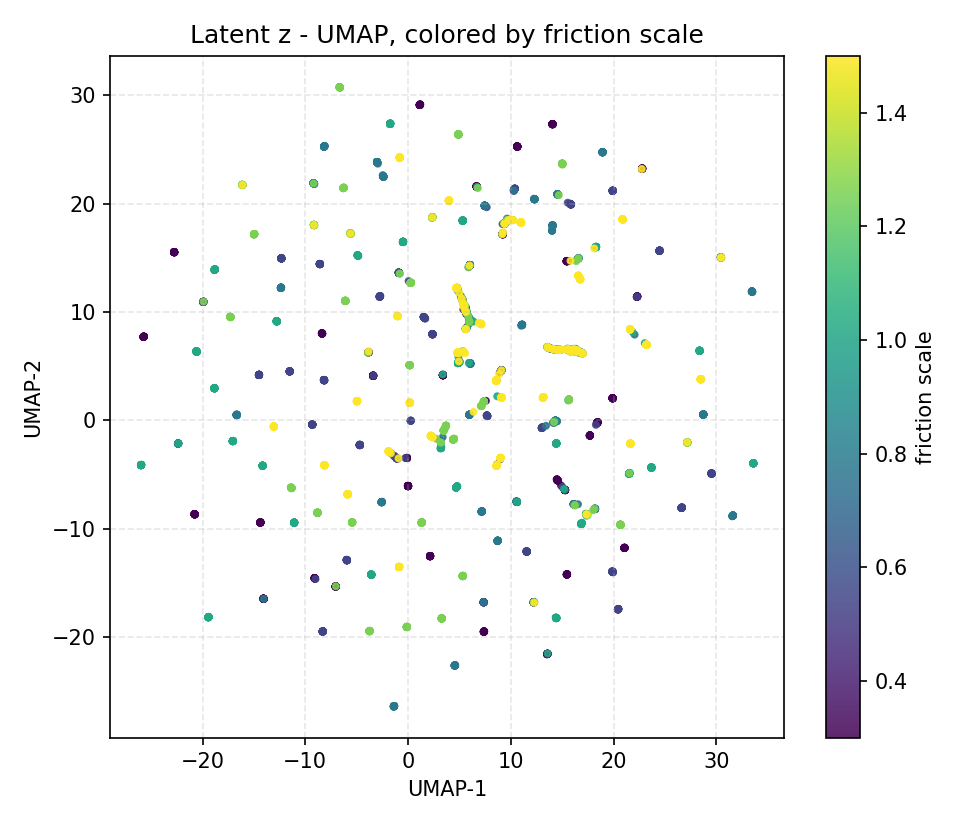
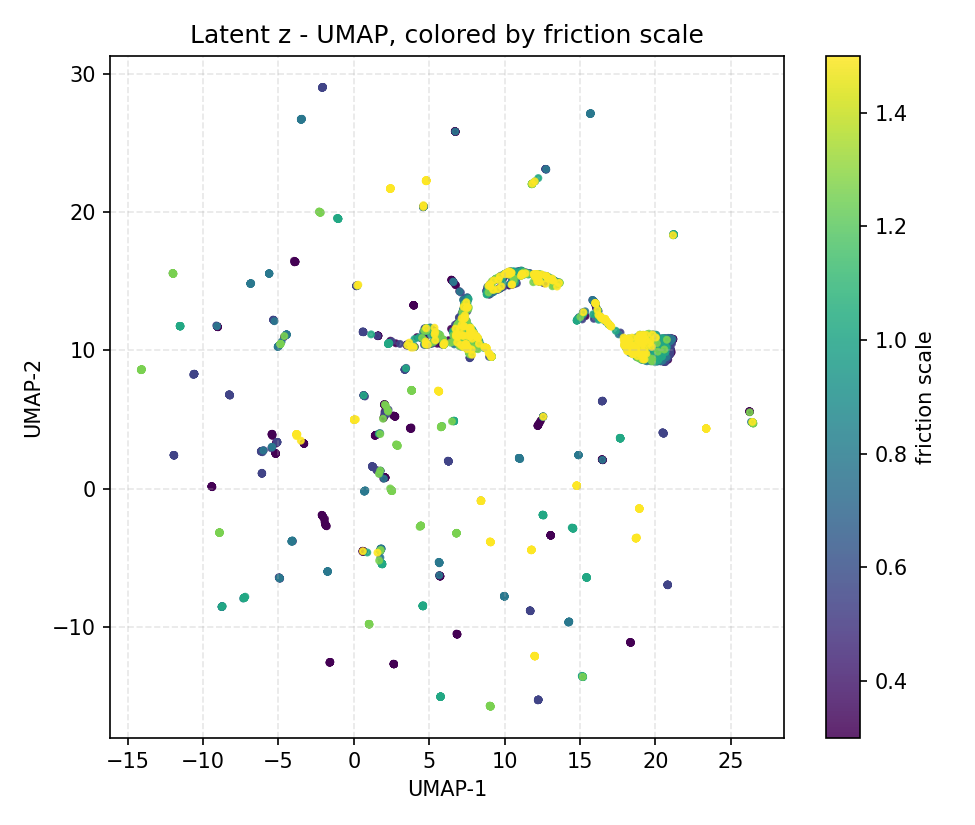
Training in progress

diff --git a/training/train_student.py b/training/train_student.py
@@ -63,7 +63,7 @@ def load_config(path="training/config.yaml"):
     
 
 # -------------------------------------------------------------------------------
-# Privileged refression head + target normalization
+# Privileged regression head + target normalization
 
 # Without a direct supervisory signal, the encoder has no reason to encode
 # dynamics: the teacher's action depends only on 'obs', so the student can match
@@ -297,9 +297,9 @@ def distill(cfg, teacher, obs_rms, encoder, student, env, dyn_config, device="cp
     # Rollout + Train Loop
     obs_raw, infos = env.reset()
 
-    # Per-env privilieged dynamics, refreshed on every reset. We track this
-    # ourselves because the vectorized step() infor on done steps may report the
-    # NEW episode's dynamics, which would mislable the LAST step of the old.
+    # Per-env privileged dynamics, refreshed on every reset. We track this
+    # ourselves because the vectorized step() info on done steps may report the
+    # NEW episode's dynamics, which would mislabel the LAST step of the old.
     priv_obs_per_env = np.array(
         infos["privileged_obs"], dtype=np.float32
     ).reshape(num_envs, privileged_dim).copy()